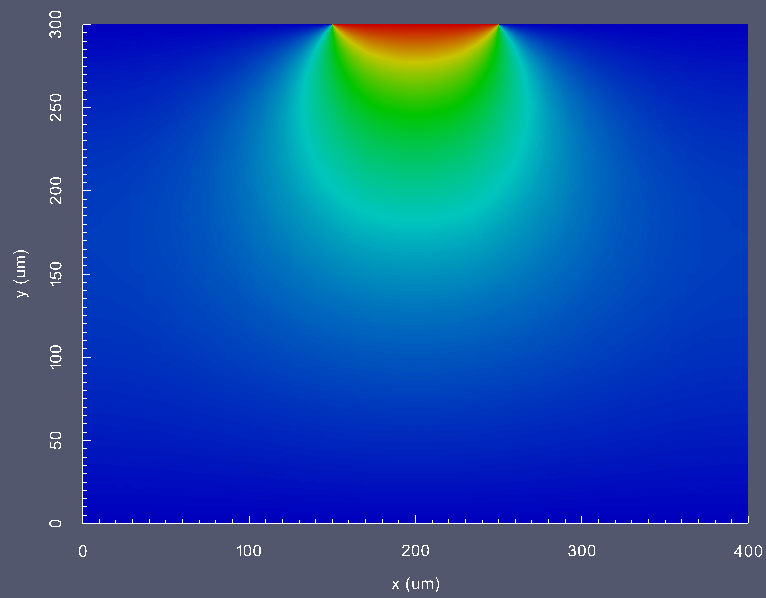
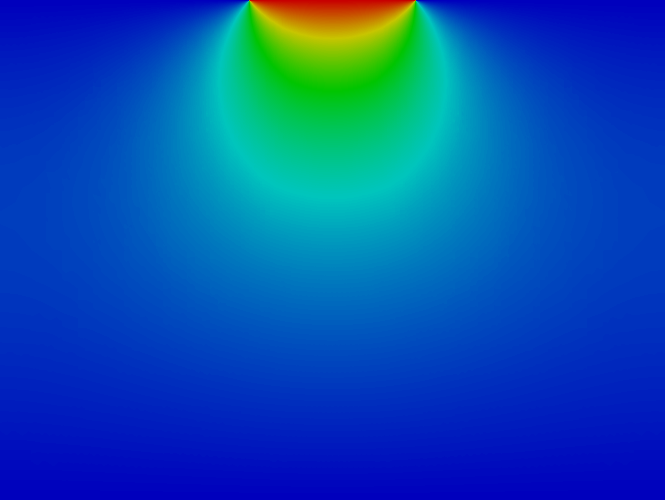
Adding graph of th computed current and minor changes

diff --git a/slides/slides.tex b/slides/slides.tex
@@ -4,6 +4,7 @@
 \usepackage{color}
 \usepackage{tikz}
 \usepackage{graphicx}
+\usepackage{pgfplots}
 
 \usetheme{Warsaw}
 
@@ -761,8 +762,18 @@ Detector width = 200$\mu$m, number of strips = 3, radius = 21$\mu$m,
 
         \begin{center}
           \begin{tikzpicture}
-            \node[inner sep=0pt]  at (0,0) {\includegraphics[width=\textwidth]{images/w_semi_free_conditions.png}};
-            \draw[red, line width=0.5mm, dashed] (0.23,-1.6) -- (0.23,1.95);
+
+            \begin{axis}[
+                width=4cm,
+                height=3.30cm,
+                scale only axis,
+                enlargelimits=false,
+                axis on top]
+              \addplot graphics[xmin=0,xmax=400,ymin=0,ymax=300] {images/w_semi_free_conditions.png};
+            \end{axis}
+
+            %\node[inner sep=0pt]  at (0,0); %{\includegraphics[width=\textwidth]{images/w_semi_free_conditions.png}};
+            \draw[red, line width=0.5mm, dashed] (2,0) -- (2,3.35);
           \end{tikzpicture}
         \end{center}
       \end{column}
@@ -788,7 +799,7 @@ Detector width = 200$\mu$m, number of strips = 3, radius = 21$\mu$m,
 
   \fontsize{10pt}{7.2}\selectfont
 
-  V=1V, 1 strip, pitch = 450$\mu$m, strip length = 100$\mu$m, width = 300$\mu$m
+  V=1V, 1 strip, pitch = 400$\mu$m, strip length = 100$\mu$m, width = 300$\mu$m
 
   \begin{columns}
 
@@ -814,9 +825,18 @@ Detector width = 200$\mu$m, number of strips = 3, radius = 21$\mu$m,
 
           \textcolor{red}{Pdetect}
 
-            \vspace{0.3em}
-
-          \includegraphics[width=\textwidth]{images/w_free_conditions.png}
+            \vspace{0.1em}
+            \begin{tikzpicture}
+              \begin{axis}[
+                width=4cm,
+                height=3.30cm,
+                scale only axis,
+                enlargelimits=false,
+                axis on top]
+              \addplot graphics[xmin=0,xmax=400,ymin=0,ymax=300] {images/w_free_conditions.png};
+            \end{axis}
+          \end{tikzpicture}
+          %\includegraphics[width=\textwidth]{images/w_free_conditions.png}
         \end{center}
 
       \end{column}
@@ -988,6 +1008,69 @@ cell with $\mathcal{O}(\log(n))$ time complexity
 \end{frame}
 
 \begin{frame}
+  \frametitle{Pdetect software}
+  \framesubtitle{Computing the current: Pdetect vs Weightfield}
+
+  \fontsize{10pt}{7.2}\selectfont
+  Current induce by particle passing vertically (middle of the detector)
+
+  1 strip, pitch = 100$\mu$m, strip length = 25$\mu$m, width = 300$\mu$m, V$_{strip} = 100$V
+  \begin{columns}
+    \begin{column}{0.5\textwidth}
+
+      \begin{center}
+        \begin{tikzpicture}
+
+          \begin{axis}[
+              width=4cm,
+              height=3.30cm,
+              scale only axis,
+              enlargelimits=false,
+              axis on top]
+            \addplot graphics[xmin=0,xmax=100,ymin=0,ymax=300] {images/w_free_conditions.png};
+          \end{axis}
+
+          \draw[red, line width=0.5mm, dashed] (2,0) -- (2,3.35);
+        \end{tikzpicture}
+      \end{center}
+    \end{column}
+
+    \begin{column}{0.5\textwidth}
+      \begin{center}
+        \includegraphics[width=\textwidth]{images/silicon_current.pdf}
+      \end{center}
+    \end{column}
+
+  \end{columns}
+\end{frame}
+
+\begin{frame}
+  \frametitle{Pdetect software}
+  \framesubtitle{Computing the current: Pdetect vs Weightfield}
+
+  \begin{columns}
+    \begin{column}{0.5\textwidth}
+
+      \begin{center}
+        \includegraphics[width=5cm]{images/silicon_current.pdf}
+      \end{center}
+    \end{column}
+
+    \begin{column}{0.5\textwidth}
+      \fontsize{12pt}{9}\selectfont
+
+      Some differences, due to effect in Weightfield:
+      \begin{itemize}
+        \item Depletion voltage
+        \item Gain
+        \item Electronics
+      \end{itemize}
+
+    \end{column}
+  \end{columns}
+\end{frame}
+
+\begin{frame}
   \frametitle{Conclusion}
   %\framesubtitle{Computing the current: quickly access $\vec{E}$ and $\vec{E}_w$}
 
@@ -1153,7 +1236,7 @@ cell with $\mathcal{O}(\log(n))$ time complexity
         \begin{center}
           \begin{tikzpicture}
             \node[inner sep=0pt]  at (0,0) {\includegraphics[width=\textwidth]{images/w_semi_free_conditions.png}};
-            \draw[red, line width=0.5mm, dashed] (-0.35,-1.6) -- (-0.35,1.95);
+            \draw[red, line width=0.5mm, dashed] (-0.6,-1.9) -- (-0.6,2.1);
           \end{tikzpicture}
         \end{center}
       \end{column}
@@ -1186,7 +1269,7 @@ cell with $\mathcal{O}(\log(n))$ time complexity
         \begin{center}
           \begin{tikzpicture}
             \node[inner sep=0pt]  at (0,0) {\includegraphics[width=\textwidth]{images/w_semi_free_conditions.png}};
-            \draw[red, line width=0.5mm, dashed] (-2.1,1.9) -- (2.6,1.9);
+            \draw[red, line width=0.5mm, dashed] (-2.5,1.9) -- (2.6,1.9);
           \end{tikzpicture}
         \end{center}
       \end{column}
